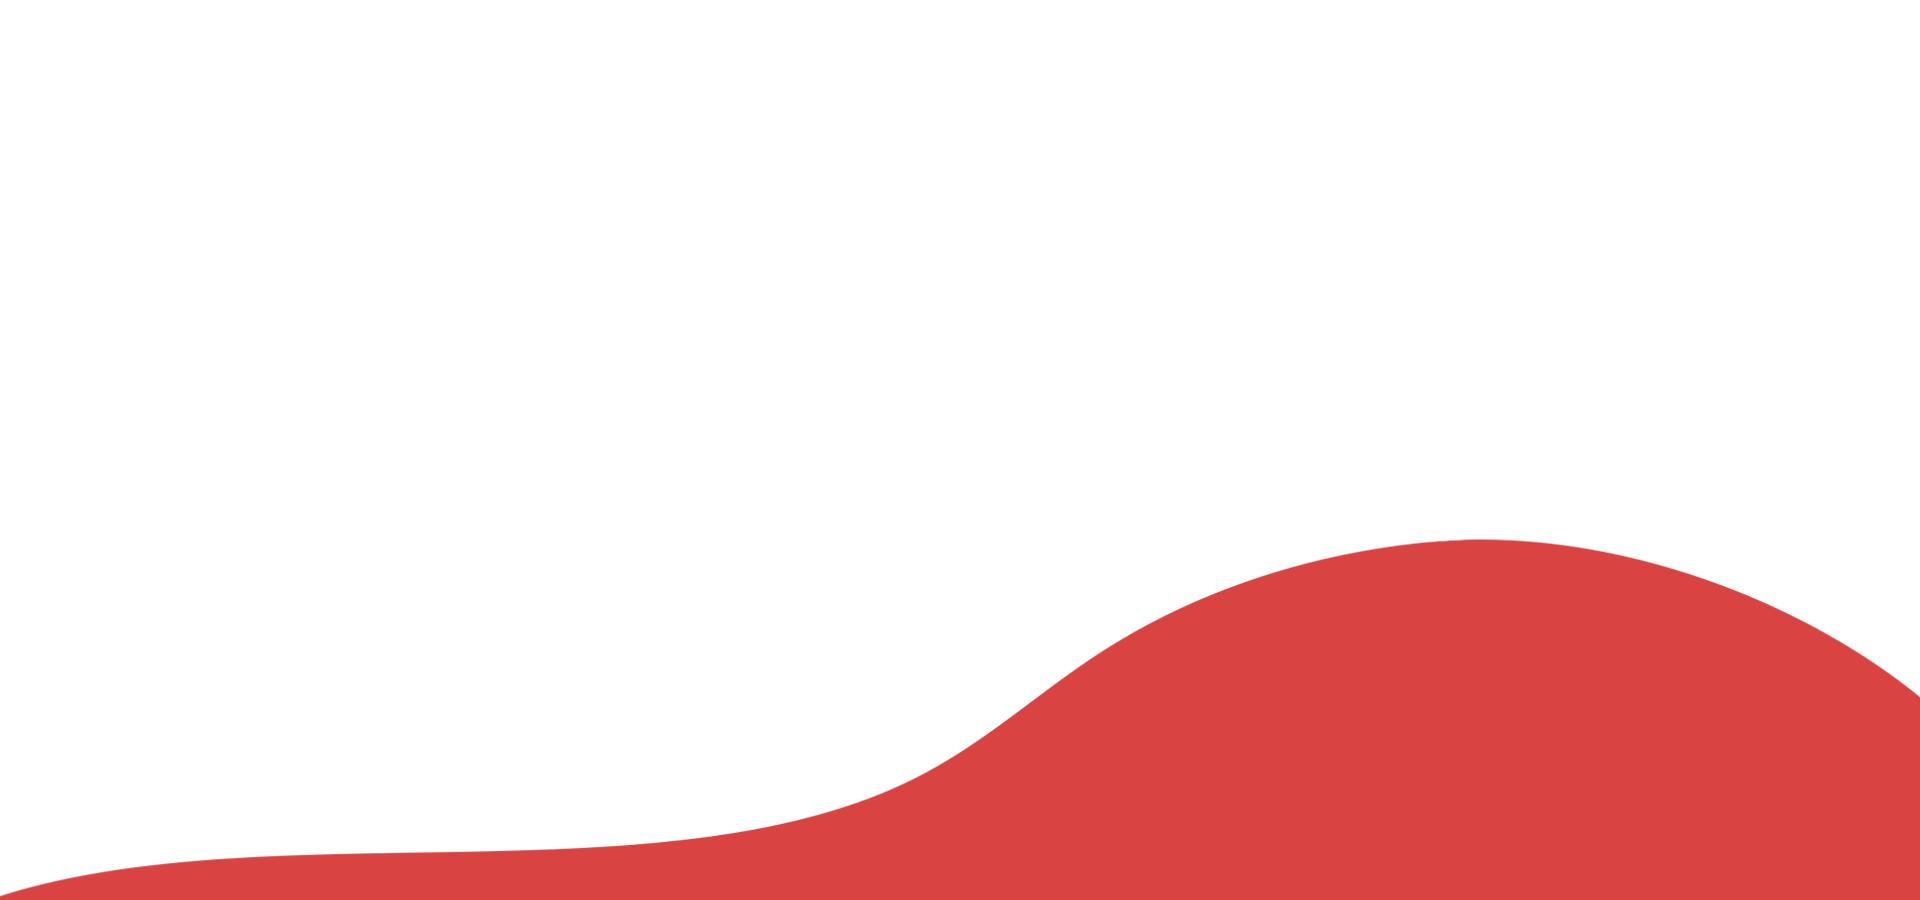
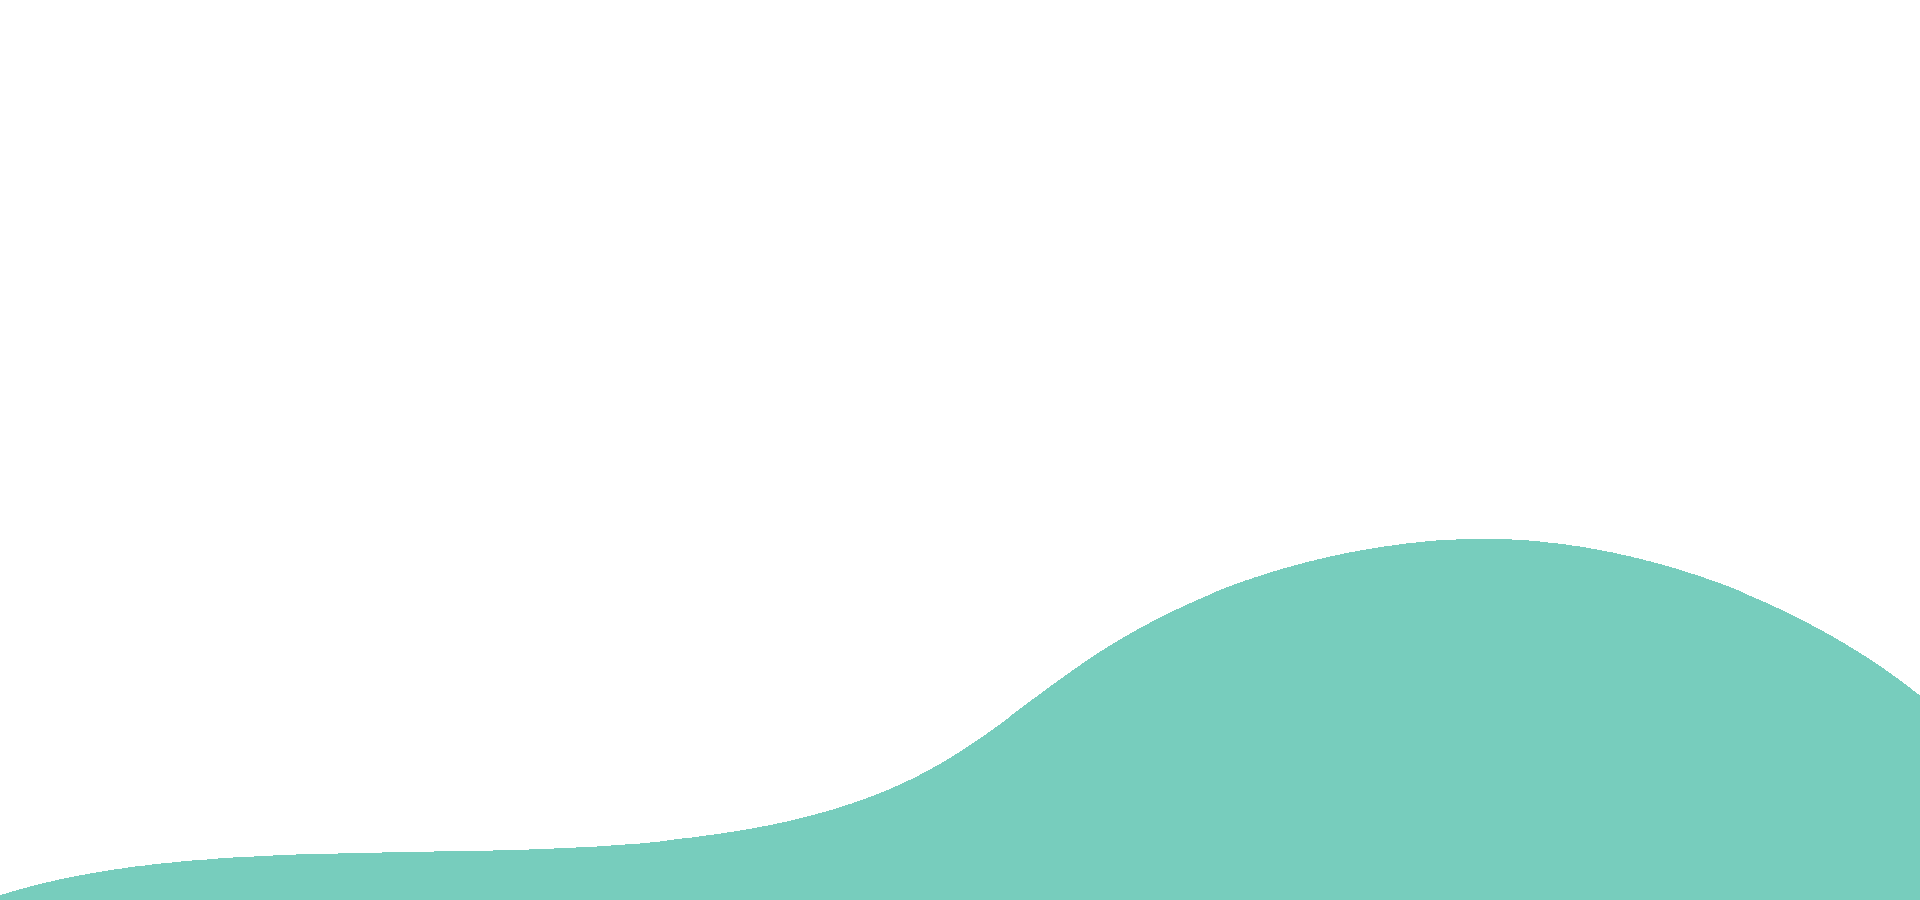
hola

Changed region(s): [[0.0, 0.5911, 1.0, 1.0]]

diff --git a/index.html b/index.html
@@ -108,7 +108,7 @@
             <div class="content_wrapper clearfix">
                 <div class="sections_group">
                     <div class="entry-content">
-                        <div class="section mcb-section" style="padding-top:120px;padding-bottom:0px;background-color:#d94443">
+                        <div class="section mcb-section" style="padding-top:120px;padding-bottom:0px;background-color:#2cd1b3">
                             <div class="section_wrapper mcb-section-inner">
                                 <div class="wrap mcb-wrap  two-fifth valign-top clearfix">
                                     <div class="mcb-wrap-inner">

diff --git a/content/kindergarten3/css/kindergarten3.css b/content/kindergarten3/css/kindergarten3.css
@@ -1185,7 +1185,7 @@ a.action_button {
 	border-top-color: #545454;
 }
 #Footer {
-	background-color: #d94443;
+	background-color: #2cd1b3;
 }
 body, ul.timeline_items, .icon_box a .desc, .icon_box a:hover .desc, .feature_list ul li a, .list_item a, .list_item a:hover, .widget_recent_entries ul li a, .flat_box a, .flat_box a:hover, .story_box .desc, .content_slider.carouselul li a .title, .content_slider.flat.description ul li .desc, .content_slider.flat.description ul li a .desc, .post-nav.minimal a i {
 	color: #a5a093;
